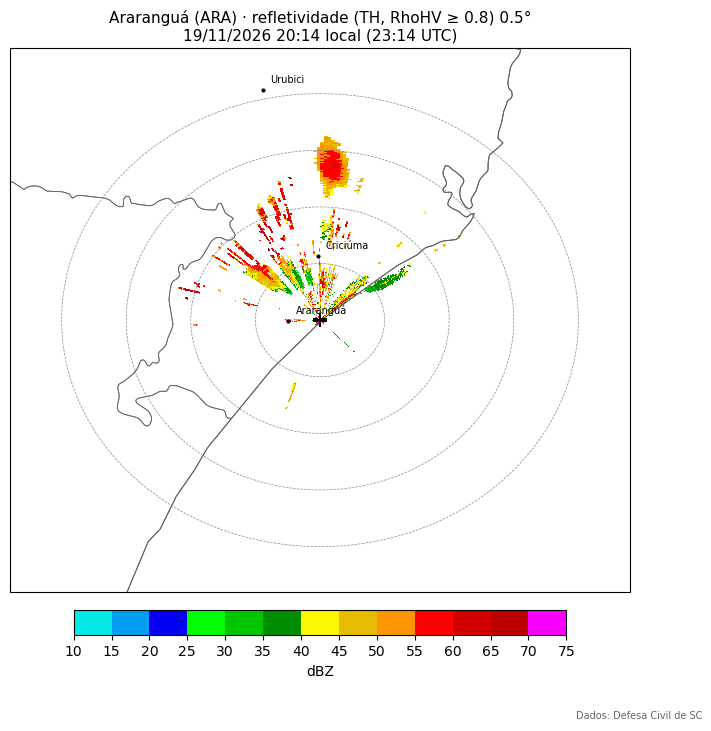
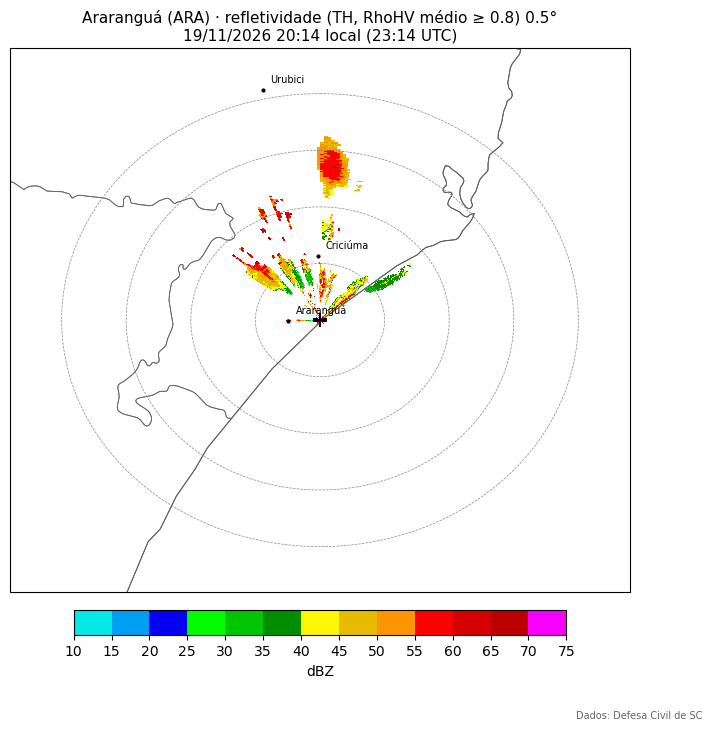
Araranguá: RhoHV suavizado, lista de quadros restaurada e comparação de azimutes
O limiar de RhoHV passa a usar a média em 3 raios x 1 km, o que reduz os
raios em falta de 19–55% para 8–23% nos 7 horários testados.

Restaura em recentes/ara/ppi/quadros.csv os 53 quadros que o commit
anterior tirou da lista por engano. comparar_azimutes.py separa bloqueio
fixo do feixe de falhas que mudam com o tempo. --quantas baixa vários
horários de amostra; --refazer redesenha quadros que já têm imagem.

diff --git a/index.html b/index.html
@@ -39,8 +39,8 @@ footer { max-width: 1200px; margin: 0 auto; padding: 16px 16px 32px; color: var(
   <h1>Radar SC, últimas 6 horas</h1>
   <p>Radares de Santa Catarina: volumes do FTP da Defesa Civil de SC desenhados por <code>baixar_ftp_sc.py</code>. Abre no quadro mais recente.</p>
 </header>
-<main><figure class="cartao laco" data-quadros="[{&quot;src&quot;: &quot;recentes/ara/ppi/20261119_231413.png&quot;, &quot;rotulo&quot;: &quot;19/11 20:14 local · 23:14 UTC&quot;}]"><div class="quadro"><img src="recentes/ara/ppi/20261119_231413.png" alt="Araranguá (Defesa Civil SC) · refletividade, elevação mais baixa"></div><div class="controles"><button type="button" class="tocar" aria-label="Tocar">▶</button><input type="range" min="0" max="0" value="0" aria-label="Quadro"><select aria-label="Velocidade"><option value="900">lento</option><option value="450" selected>normal</option><option value="180">rápido</option></select><output>19/11 20:14 local · 23:14 UTC</output></div><figcaption><h2>Araranguá (Defesa Civil SC) · refletividade, elevação mais baixa</h2><p>1 quadro, de 19/11 20:14 local · 23:14 UTC a 19/11 20:14 local · 23:14 UTC.</p></figcaption></figure><figure class="cartao laco" data-quadros="[{&quot;src&quot;: &quot;recentes/chp/ppi/20261119_171204.png&quot;, &quot;rotulo&quot;: &quot;19/11 14:12 local · 17:12 UTC&quot;}, {&quot;src&quot;: &quot;recentes/chp/ppi/20261119_171804.png&quot;, &quot;rotulo&quot;: &quot;19/11 14:18 local · 17:18 UTC&quot;}, {&quot;src&quot;: &quot;recentes/chp/ppi/20261119_172404.png&quot;, &quot;rotulo&quot;: &quot;19/11 14:24 local · 17:24 UTC&quot;}, {&quot;src&quot;: &quot;recentes/chp/ppi/20261119_173004.png&quot;, &quot;rotulo&quot;: &quot;19/11 14:30 local · 17:30 UTC&quot;}, {&quot;src&quot;: &quot;recentes/chp/ppi/20261119_173604.png&quot;, &quot;rotulo&quot;: &quot;19/11 14:36 local · 17:36 UTC&quot;}, {&quot;src&quot;: &quot;recentes/chp/ppi/20261119_174204.png&quot;, &quot;rotulo&quot;: &quot;19/11 14:42 local · 17:42 UTC&quot;}, {&quot;src&quot;: &quot;recentes/chp/ppi/20261119_174804.png&quot;, &quot;rotulo&quot;: &quot;19/11 14:48 local · 17:48 UTC&quot;}, {&quot;src&quot;: &quot;recentes/chp/ppi/20261119_175404.png&quot;, &quot;rotulo&quot;: &quot;19/11 14:54 local · 17:54 UTC&quot;}, {&quot;src&quot;: &quot;recentes/chp/ppi/20261119_180004.png&quot;, &quot;rotulo&quot;: &quot;19/11 15:00 local · 18:00 UTC&quot;}, {&quot;src&quot;: &quot;recentes/chp/ppi/20261119_180604.png&quot;, &quot;rotulo&quot;: &quot;19/11 15:06 local · 18:06 UTC&quot;}, {&quot;src&quot;: &quot;recentes/chp/ppi/20261119_181204.png&quot;, &quot;rotulo&quot;: &quot;19/11 15:12 local · 18:12 UTC&quot;}, {&quot;src&quot;: &quot;recentes/chp/ppi/20261119_181804.png&quot;, &quot;rotulo&quot;: &quot;19/11 15:18 local · 18:18 UTC&quot;}, {&quot;src&quot;: &quot;recentes/chp/ppi/20261119_182404.png&quot;, &quot;rotulo&quot;: &quot;19/11 15:24 local · 18:24 UTC&quot;}, {&quot;src&quot;: &quot;recentes/chp/ppi/20261119_183004.png&quot;, &quot;rotulo&quot;: &quot;19/11 15:30 local · 18:30 UTC&quot;}, {&quot;src&quot;: &quot;recentes/chp/ppi/20261119_183604.png&quot;, &quot;rotulo&quot;: &quot;19/11 15:36 local · 18:36 UTC&quot;}, {&quot;src&quot;: &quot;recentes/chp/ppi/20261119_184204.png&quot;, &quot;rotulo&quot;: &quot;19/11 15:42 local · 18:42 UTC&quot;}, {&quot;src&quot;: &quot;recentes/chp/ppi/20261119_184804.png&quot;, &quot;rotulo&quot;: &quot;19/11 15:48 local · 18:48 UTC&quot;}, {&quot;src&quot;: &quot;recentes/chp/ppi/20261119_185404.png&quot;, &quot;rotulo&quot;: &quot;19/11 15:54 local · 18:54 UTC&quot;}, {&quot;src&quot;: &quot;recentes/chp/ppi/20261119_190004.png&quot;, &quot;rotulo&quot;: &quot;19/11 16:00 local · 19:00 UTC&quot;}, {&quot;src&quot;: &quot;recentes/chp/ppi/20261119_190604.png&quot;, &quot;rotulo&quot;: &quot;19/11 16:06 local · 19:06 UTC&quot;}, {&quot;src&quot;: &quot;recentes/chp/ppi/20261119_191204.png&quot;, &quot;rotulo&quot;: &quot;19/11 16:12 local · 19:12 UTC&quot;}, {&quot;src&quot;: &quot;recentes/chp/ppi/20261119_191804.png&quot;, &quot;rotulo&quot;: &quot;19/11 16:18 local · 19:18 UTC&quot;}, {&quot;src&quot;: &quot;recentes/chp/ppi/20261119_193604.png&quot;, &quot;rotulo&quot;: &quot;19/11 16:36 local · 19:36 UTC&quot;}, {&quot;src&quot;: &quot;recentes/chp/ppi/20261119_195404.png&quot;, &quot;rotulo&quot;: &quot;19/11 16:54 local · 19:54 UTC&quot;}, {&quot;src&quot;: &quot;recentes/chp/ppi/20261119_200004.png&quot;, &quot;rotulo&quot;: &quot;19/11 17:00 local · 20:00 UTC&quot;}, {&quot;src&quot;: &quot;recentes/chp/ppi/20261119_200604.png&quot;, &quot;rotulo&quot;: &quot;19/11 17:06 local · 20:06 UTC&quot;}, {&quot;src&quot;: &quot;recentes/chp/ppi/20261119_201204.png&quot;, &quot;rotulo&quot;: &quot;19/11 17:12 local · 20:12 UTC&quot;}, {&quot;src&quot;: &quot;recentes/chp/ppi/20261119_201804.png&quot;, &quot;rotulo&quot;: &quot;19/11 17:18 local · 20:18 UTC&quot;}, {&quot;src&quot;: &quot;recentes/chp/ppi/20261119_202404.png&quot;, &quot;rotulo&quot;: &quot;19/11 17:24 local · 20:24 UTC&quot;}, {&quot;src&quot;: &quot;recentes/chp/ppi/20261119_203004.png&quot;, &quot;rotulo&quot;: &quot;19/11 17:30 local · 20:30 UTC&quot;}, {&quot;src&quot;: &quot;recentes/chp/ppi/20261119_203604.png&quot;, &quot;rotulo&quot;: &quot;19/11 17:36 local · 20:36 UTC&quot;}, {&quot;src&quot;: &quot;recentes/chp/ppi/20261119_204204.png&quot;, &quot;rotulo&quot;: &quot;19/11 17:42 local · 20:42 UTC&quot;}, {&quot;src&quot;: &quot;recentes/chp/ppi/20261119_204804.png&quot;, &quot;rotulo&quot;: &quot;19/11 17:48 local · 20:48 UTC&quot;}, {&quot;src&quot;: &quot;recentes/chp/ppi/20261119_205404.png&quot;, &quot;rotulo&quot;: &quot;19/11 17:54 local · 20:54 UTC&quot;}, {&quot;src&quot;: &quot;recentes/chp/ppi/20261119_210004.png&quot;, &quot;rotulo&quot;: &quot;19/11 18:00 local · 21:00 UTC&quot;}, {&quot;src&quot;: &quot;recentes/chp/ppi/20261119_210605.png&quot;, &quot;rotulo&quot;: &quot;19/11 18:06 local · 21:06 UTC&quot;}, {&quot;src&quot;: &quot;recentes/chp/ppi/20261119_211205.png&quot;, &quot;rotulo&quot;: &quot;19/11 18:12 local · 21:12 UTC&quot;}, {&quot;src&quot;: &quot;recentes/chp/ppi/20261119_211805.png&quot;, &quot;rotulo&quot;: &quot;19/11 18:18 local · 21:18 UTC&quot;}, {&quot;src&quot;: &quot;recentes/chp/ppi/20261119_212405.png&quot;, &quot;rotulo&quot;: &quot;19/11 18:24 local · 21:24 UTC&quot;}, {&quot;src&quot;: &quot;recentes/chp/ppi/20261119_213005.png&quot;, &quot;rotulo&quot;: &quot;19/11 18:30 local · 21:30 UTC&quot;}, {&quot;src&quot;: &quot;recentes/chp/ppi/20261119_213605.png&quot;, &quot;rotulo&quot;: &quot;19/11 18:36 local · 21:36 UTC&quot;}, {&quot;src&quot;: &quot;recentes/chp/ppi/20261119_214205.png&quot;, &quot;rotulo&quot;: &quot;19/11 18:42 local · 21:42 UTC&quot;}, {&quot;src&quot;: &quot;recentes/chp/ppi/20261119_214805.png&quot;, &quot;rotulo&quot;: &quot;19/11 18:48 local · 21:48 UTC&quot;}, {&quot;src&quot;: &quot;recentes/chp/ppi/20261119_215404.png&quot;, &quot;rotulo&quot;: &quot;19/11 18:54 local · 21:54 UTC&quot;}, {&quot;src&quot;: &quot;recentes/chp/ppi/20261119_220005.png&quot;, &quot;rotulo&quot;: &quot;19/11 19:00 local · 22:00 UTC&quot;}, {&quot;src&quot;: &quot;recentes/chp/ppi/20261119_220605.png&quot;, &quot;rotulo&quot;: &quot;19/11 19:06 local · 22:06 UTC&quot;}, {&quot;src&quot;: &quot;recentes/chp/ppi/20261119_221205.png&quot;, &quot;rotulo&quot;: &quot;19/11 19:12 local · 22:12 UTC&quot;}, {&quot;src&quot;: &quot;recentes/chp/ppi/20261119_221804.png&quot;, &quot;rotulo&quot;: &quot;19/11 19:18 local · 22:18 UTC&quot;}, {&quot;src&quot;: &quot;recentes/chp/ppi/20261119_222405.png&quot;, &quot;rotulo&quot;: &quot;19/11 19:24 local · 22:24 UTC&quot;}, {&quot;src&quot;: &quot;recentes/chp/ppi/20261119_223005.png&quot;, &quot;rotulo&quot;: &quot;19/11 19:30 local · 22:30 UTC&quot;}, {&quot;src&quot;: &quot;recentes/chp/ppi/20261119_223605.png&quot;, &quot;rotulo&quot;: &quot;19/11 19:36 local · 22:36 UTC&quot;}, {&quot;src&quot;: &quot;recentes/chp/ppi/20261119_224205.png&quot;, &quot;rotulo&quot;: &quot;19/11 19:42 local · 22:42 UTC&quot;}, {&quot;src&quot;: &quot;recentes/chp/ppi/20261119_224805.png&quot;, &quot;rotulo&quot;: &quot;19/11 19:48 local · 22:48 UTC&quot;}, {&quot;src&quot;: &quot;recentes/chp/ppi/20261119_225405.png&quot;, &quot;rotulo&quot;: &quot;19/11 19:54 local · 22:54 UTC&quot;}, {&quot;src&quot;: &quot;recentes/chp/ppi/20261119_230005.png&quot;, &quot;rotulo&quot;: &quot;19/11 20:00 local · 23:00 UTC&quot;}, {&quot;src&quot;: &quot;recentes/chp/ppi/20261119_230605.png&quot;, &quot;rotulo&quot;: &quot;19/11 20:06 local · 23:06 UTC&quot;}]"><div class="quadro"><img src="recentes/chp/ppi/20261119_230605.png" alt="Chapecó (Defesa Civil SC) · refletividade, elevação mais baixa"></div><div class="controles"><button type="button" class="tocar" aria-label="Tocar">▶</button><input type="range" min="0" max="55" value="55" aria-label="Quadro"><select aria-label="Velocidade"><option value="900">lento</option><option value="450" selected>normal</option><option value="180">rápido</option></select><output>19/11 20:06 local · 23:06 UTC</output></div><figcaption><h2>Chapecó (Defesa Civil SC) · refletividade, elevação mais baixa</h2><p>56 quadros, de 19/11 14:12 local · 17:12 UTC a 19/11 20:06 local · 23:06 UTC.</p></figcaption></figure></main>
-<footer>Atualizado em 19/11/2026 20:39 local (23:39 UTC). Fonte: Defesa Civil de SC.</footer>
+<main><figure class="cartao laco" data-quadros="[{&quot;src&quot;: &quot;recentes/ara/ppi/20261119_171651.png&quot;, &quot;rotulo&quot;: &quot;19/11 14:16 local · 17:16 UTC&quot;}, {&quot;src&quot;: &quot;recentes/ara/ppi/20261119_173115.png&quot;, &quot;rotulo&quot;: &quot;19/11 14:31 local · 17:31 UTC&quot;}, {&quot;src&quot;: &quot;recentes/ara/ppi/20261119_173521.png&quot;, &quot;rotulo&quot;: &quot;19/11 14:35 local · 17:35 UTC&quot;}, {&quot;src&quot;: &quot;recentes/ara/ppi/20261119_173724.png&quot;, &quot;rotulo&quot;: &quot;19/11 14:37 local · 17:37 UTC&quot;}, {&quot;src&quot;: &quot;recentes/ara/ppi/20261119_173926.png&quot;, &quot;rotulo&quot;: &quot;19/11 14:39 local · 17:39 UTC&quot;}, {&quot;src&quot;: &quot;recentes/ara/ppi/20261119_174129.png&quot;, &quot;rotulo&quot;: &quot;19/11 14:41 local · 17:41 UTC&quot;}, {&quot;src&quot;: &quot;recentes/ara/ppi/20261119_174332.png&quot;, &quot;rotulo&quot;: &quot;19/11 14:43 local · 17:43 UTC&quot;}, {&quot;src&quot;: &quot;recentes/ara/ppi/20261119_174536.png&quot;, &quot;rotulo&quot;: &quot;19/11 14:45 local · 17:45 UTC&quot;}, {&quot;src&quot;: &quot;recentes/ara/ppi/20261119_174739.png&quot;, &quot;rotulo&quot;: &quot;19/11 14:47 local · 17:47 UTC&quot;}, {&quot;src&quot;: &quot;recentes/ara/ppi/20261119_175553.png&quot;, &quot;rotulo&quot;: &quot;19/11 14:55 local · 17:55 UTC&quot;}, {&quot;src&quot;: &quot;recentes/ara/ppi/20261119_181015.png&quot;, &quot;rotulo&quot;: &quot;19/11 15:10 local · 18:10 UTC&quot;}, {&quot;src&quot;: &quot;recentes/ara/ppi/20261119_181218.png&quot;, &quot;rotulo&quot;: &quot;19/11 15:12 local · 18:12 UTC&quot;}, {&quot;src&quot;: &quot;recentes/ara/ppi/20261119_181624.png&quot;, &quot;rotulo&quot;: &quot;19/11 15:16 local · 18:16 UTC&quot;}, {&quot;src&quot;: &quot;recentes/ara/ppi/20261119_183452.png&quot;, &quot;rotulo&quot;: &quot;19/11 15:34 local · 18:34 UTC&quot;}, {&quot;src&quot;: &quot;recentes/ara/ppi/20261119_183858.png&quot;, &quot;rotulo&quot;: &quot;19/11 15:38 local · 18:38 UTC&quot;}, {&quot;src&quot;: &quot;recentes/ara/ppi/20261119_184507.png&quot;, &quot;rotulo&quot;: &quot;19/11 15:45 local · 18:45 UTC&quot;}, {&quot;src&quot;: &quot;recentes/ara/ppi/20261119_184913.png&quot;, &quot;rotulo&quot;: &quot;19/11 15:49 local · 18:49 UTC&quot;}, {&quot;src&quot;: &quot;recentes/ara/ppi/20261119_185116.png&quot;, &quot;rotulo&quot;: &quot;19/11 15:51 local · 18:51 UTC&quot;}, {&quot;src&quot;: &quot;recentes/ara/ppi/20261119_185522.png&quot;, &quot;rotulo&quot;: &quot;19/11 15:55 local · 18:55 UTC&quot;}, {&quot;src&quot;: &quot;recentes/ara/ppi/20261119_185725.png&quot;, &quot;rotulo&quot;: &quot;19/11 15:57 local · 18:57 UTC&quot;}, {&quot;src&quot;: &quot;recentes/ara/ppi/20261119_190540.png&quot;, &quot;rotulo&quot;: &quot;19/11 16:05 local · 19:05 UTC&quot;}, {&quot;src&quot;: &quot;recentes/ara/ppi/20261119_192408.png&quot;, &quot;rotulo&quot;: &quot;19/11 16:24 local · 19:24 UTC&quot;}, {&quot;src&quot;: &quot;recentes/ara/ppi/20261119_192612.png&quot;, &quot;rotulo&quot;: &quot;19/11 16:26 local · 19:26 UTC&quot;}, {&quot;src&quot;: &quot;recentes/ara/ppi/20261119_193018.png&quot;, &quot;rotulo&quot;: &quot;19/11 16:30 local · 19:30 UTC&quot;}, {&quot;src&quot;: &quot;recentes/ara/ppi/20261119_194236.png&quot;, &quot;rotulo&quot;: &quot;19/11 16:42 local · 19:42 UTC&quot;}, {&quot;src&quot;: &quot;recentes/ara/ppi/20261119_194440.png&quot;, &quot;rotulo&quot;: &quot;19/11 16:44 local · 19:44 UTC&quot;}, {&quot;src&quot;: &quot;recentes/ara/ppi/20261119_194644.png&quot;, &quot;rotulo&quot;: &quot;19/11 16:46 local · 19:46 UTC&quot;}, {&quot;src&quot;: &quot;recentes/ara/ppi/20261119_194847.png&quot;, &quot;rotulo&quot;: &quot;19/11 16:48 local · 19:48 UTC&quot;}, {&quot;src&quot;: &quot;recentes/ara/ppi/20261119_195659.png&quot;, &quot;rotulo&quot;: &quot;19/11 16:56 local · 19:56 UTC&quot;}, {&quot;src&quot;: &quot;recentes/ara/ppi/20261119_195902.png&quot;, &quot;rotulo&quot;: &quot;19/11 16:59 local · 19:59 UTC&quot;}, {&quot;src&quot;: &quot;recentes/ara/ppi/20261119_200513.png&quot;, &quot;rotulo&quot;: &quot;19/11 17:05 local · 20:05 UTC&quot;}, {&quot;src&quot;: &quot;recentes/ara/ppi/20261119_200919.png&quot;, &quot;rotulo&quot;: &quot;19/11 17:09 local · 20:09 UTC&quot;}, {&quot;src&quot;: &quot;recentes/ara/ppi/20261119_201325.png&quot;, &quot;rotulo&quot;: &quot;19/11 17:13 local · 20:13 UTC&quot;}, {&quot;src&quot;: &quot;recentes/ara/ppi/20261119_201933.png&quot;, &quot;rotulo&quot;: &quot;19/11 17:19 local · 20:19 UTC&quot;}, {&quot;src&quot;: &quot;recentes/ara/ppi/20261119_202136.png&quot;, &quot;rotulo&quot;: &quot;19/11 17:21 local · 20:21 UTC&quot;}, {&quot;src&quot;: &quot;recentes/ara/ppi/20261119_202542.png&quot;, &quot;rotulo&quot;: &quot;19/11 17:25 local · 20:25 UTC&quot;}, {&quot;src&quot;: &quot;recentes/ara/ppi/20261119_202745.png&quot;, &quot;rotulo&quot;: &quot;19/11 17:27 local · 20:27 UTC&quot;}, {&quot;src&quot;: &quot;recentes/ara/ppi/20261119_202948.png&quot;, &quot;rotulo&quot;: &quot;19/11 17:29 local · 20:29 UTC&quot;}, {&quot;src&quot;: &quot;recentes/ara/ppi/20261119_203151.png&quot;, &quot;rotulo&quot;: &quot;19/11 17:31 local · 20:31 UTC&quot;}, {&quot;src&quot;: &quot;recentes/ara/ppi/20261119_204207.png&quot;, &quot;rotulo&quot;: &quot;19/11 17:42 local · 20:42 UTC&quot;}, {&quot;src&quot;: &quot;recentes/ara/ppi/20261119_204410.png&quot;, &quot;rotulo&quot;: &quot;19/11 17:44 local · 20:44 UTC&quot;}, {&quot;src&quot;: &quot;recentes/ara/ppi/20261119_204613.png&quot;, &quot;rotulo&quot;: &quot;19/11 17:46 local · 20:46 UTC&quot;}, {&quot;src&quot;: &quot;recentes/ara/ppi/20261119_205223.png&quot;, &quot;rotulo&quot;: &quot;19/11 17:52 local · 20:52 UTC&quot;}, {&quot;src&quot;: &quot;recentes/ara/ppi/20261119_210444.png&quot;, &quot;rotulo&quot;: &quot;19/11 18:04 local · 21:04 UTC&quot;}, {&quot;src&quot;: &quot;recentes/ara/ppi/20261119_210850.png&quot;, &quot;rotulo&quot;: &quot;19/11 18:08 local · 21:08 UTC&quot;}, {&quot;src&quot;: &quot;recentes/ara/ppi/20261119_211256.png&quot;, &quot;rotulo&quot;: &quot;19/11 18:12 local · 21:12 UTC&quot;}, {&quot;src&quot;: &quot;recentes/ara/ppi/20261119_212517.png&quot;, &quot;rotulo&quot;: &quot;19/11 18:25 local · 21:25 UTC&quot;}, {&quot;src&quot;: &quot;recentes/ara/ppi/20261119_212924.png&quot;, &quot;rotulo&quot;: &quot;19/11 18:29 local · 21:29 UTC&quot;}, {&quot;src&quot;: &quot;recentes/ara/ppi/20261119_213738.png&quot;, &quot;rotulo&quot;: &quot;19/11 18:37 local · 21:37 UTC&quot;}, {&quot;src&quot;: &quot;recentes/ara/ppi/20261119_214550.png&quot;, &quot;rotulo&quot;: &quot;19/11 18:45 local · 21:45 UTC&quot;}, {&quot;src&quot;: &quot;recentes/ara/ppi/20261119_215204.png&quot;, &quot;rotulo&quot;: &quot;19/11 18:52 local · 21:52 UTC&quot;}, {&quot;src&quot;: &quot;recentes/ara/ppi/20261119_230358.png&quot;, &quot;rotulo&quot;: &quot;19/11 20:03 local · 23:03 UTC&quot;}, {&quot;src&quot;: &quot;recentes/ara/ppi/20261119_230601.png&quot;, &quot;rotulo&quot;: &quot;19/11 20:06 local · 23:06 UTC&quot;}, {&quot;src&quot;: &quot;recentes/ara/ppi/20261119_231413.png&quot;, &quot;rotulo&quot;: &quot;19/11 20:14 local · 23:14 UTC&quot;}, {&quot;src&quot;: &quot;recentes/ara/ppi/20261119_233648.png&quot;, &quot;rotulo&quot;: &quot;19/11 20:36 local · 23:36 UTC&quot;}]"><div class="quadro"><img src="recentes/ara/ppi/20261119_233648.png" alt="Araranguá (Defesa Civil SC) · refletividade, elevação mais baixa"></div><div class="controles"><button type="button" class="tocar" aria-label="Tocar">▶</button><input type="range" min="0" max="54" value="54" aria-label="Quadro"><select aria-label="Velocidade"><option value="900">lento</option><option value="450" selected>normal</option><option value="180">rápido</option></select><output>19/11 20:36 local · 23:36 UTC</output></div><figcaption><h2>Araranguá (Defesa Civil SC) · refletividade, elevação mais baixa</h2><p>55 quadros, de 19/11 14:16 local · 17:16 UTC a 19/11 20:36 local · 23:36 UTC.</p></figcaption></figure><figure class="cartao laco" data-quadros="[{&quot;src&quot;: &quot;recentes/chp/ppi/20261119_171204.png&quot;, &quot;rotulo&quot;: &quot;19/11 14:12 local · 17:12 UTC&quot;}, {&quot;src&quot;: &quot;recentes/chp/ppi/20261119_171804.png&quot;, &quot;rotulo&quot;: &quot;19/11 14:18 local · 17:18 UTC&quot;}, {&quot;src&quot;: &quot;recentes/chp/ppi/20261119_172404.png&quot;, &quot;rotulo&quot;: &quot;19/11 14:24 local · 17:24 UTC&quot;}, {&quot;src&quot;: &quot;recentes/chp/ppi/20261119_173004.png&quot;, &quot;rotulo&quot;: &quot;19/11 14:30 local · 17:30 UTC&quot;}, {&quot;src&quot;: &quot;recentes/chp/ppi/20261119_173604.png&quot;, &quot;rotulo&quot;: &quot;19/11 14:36 local · 17:36 UTC&quot;}, {&quot;src&quot;: &quot;recentes/chp/ppi/20261119_174204.png&quot;, &quot;rotulo&quot;: &quot;19/11 14:42 local · 17:42 UTC&quot;}, {&quot;src&quot;: &quot;recentes/chp/ppi/20261119_174804.png&quot;, &quot;rotulo&quot;: &quot;19/11 14:48 local · 17:48 UTC&quot;}, {&quot;src&quot;: &quot;recentes/chp/ppi/20261119_175404.png&quot;, &quot;rotulo&quot;: &quot;19/11 14:54 local · 17:54 UTC&quot;}, {&quot;src&quot;: &quot;recentes/chp/ppi/20261119_180004.png&quot;, &quot;rotulo&quot;: &quot;19/11 15:00 local · 18:00 UTC&quot;}, {&quot;src&quot;: &quot;recentes/chp/ppi/20261119_180604.png&quot;, &quot;rotulo&quot;: &quot;19/11 15:06 local · 18:06 UTC&quot;}, {&quot;src&quot;: &quot;recentes/chp/ppi/20261119_181204.png&quot;, &quot;rotulo&quot;: &quot;19/11 15:12 local · 18:12 UTC&quot;}, {&quot;src&quot;: &quot;recentes/chp/ppi/20261119_181804.png&quot;, &quot;rotulo&quot;: &quot;19/11 15:18 local · 18:18 UTC&quot;}, {&quot;src&quot;: &quot;recentes/chp/ppi/20261119_182404.png&quot;, &quot;rotulo&quot;: &quot;19/11 15:24 local · 18:24 UTC&quot;}, {&quot;src&quot;: &quot;recentes/chp/ppi/20261119_183004.png&quot;, &quot;rotulo&quot;: &quot;19/11 15:30 local · 18:30 UTC&quot;}, {&quot;src&quot;: &quot;recentes/chp/ppi/20261119_183604.png&quot;, &quot;rotulo&quot;: &quot;19/11 15:36 local · 18:36 UTC&quot;}, {&quot;src&quot;: &quot;recentes/chp/ppi/20261119_184204.png&quot;, &quot;rotulo&quot;: &quot;19/11 15:42 local · 18:42 UTC&quot;}, {&quot;src&quot;: &quot;recentes/chp/ppi/20261119_184804.png&quot;, &quot;rotulo&quot;: &quot;19/11 15:48 local · 18:48 UTC&quot;}, {&quot;src&quot;: &quot;recentes/chp/ppi/20261119_185404.png&quot;, &quot;rotulo&quot;: &quot;19/11 15:54 local · 18:54 UTC&quot;}, {&quot;src&quot;: &quot;recentes/chp/ppi/20261119_190004.png&quot;, &quot;rotulo&quot;: &quot;19/11 16:00 local · 19:00 UTC&quot;}, {&quot;src&quot;: &quot;recentes/chp/ppi/20261119_190604.png&quot;, &quot;rotulo&quot;: &quot;19/11 16:06 local · 19:06 UTC&quot;}, {&quot;src&quot;: &quot;recentes/chp/ppi/20261119_191204.png&quot;, &quot;rotulo&quot;: &quot;19/11 16:12 local · 19:12 UTC&quot;}, {&quot;src&quot;: &quot;recentes/chp/ppi/20261119_191804.png&quot;, &quot;rotulo&quot;: &quot;19/11 16:18 local · 19:18 UTC&quot;}, {&quot;src&quot;: &quot;recentes/chp/ppi/20261119_193604.png&quot;, &quot;rotulo&quot;: &quot;19/11 16:36 local · 19:36 UTC&quot;}, {&quot;src&quot;: &quot;recentes/chp/ppi/20261119_195404.png&quot;, &quot;rotulo&quot;: &quot;19/11 16:54 local · 19:54 UTC&quot;}, {&quot;src&quot;: &quot;recentes/chp/ppi/20261119_200004.png&quot;, &quot;rotulo&quot;: &quot;19/11 17:00 local · 20:00 UTC&quot;}, {&quot;src&quot;: &quot;recentes/chp/ppi/20261119_200604.png&quot;, &quot;rotulo&quot;: &quot;19/11 17:06 local · 20:06 UTC&quot;}, {&quot;src&quot;: &quot;recentes/chp/ppi/20261119_201204.png&quot;, &quot;rotulo&quot;: &quot;19/11 17:12 local · 20:12 UTC&quot;}, {&quot;src&quot;: &quot;recentes/chp/ppi/20261119_201804.png&quot;, &quot;rotulo&quot;: &quot;19/11 17:18 local · 20:18 UTC&quot;}, {&quot;src&quot;: &quot;recentes/chp/ppi/20261119_202404.png&quot;, &quot;rotulo&quot;: &quot;19/11 17:24 local · 20:24 UTC&quot;}, {&quot;src&quot;: &quot;recentes/chp/ppi/20261119_203004.png&quot;, &quot;rotulo&quot;: &quot;19/11 17:30 local · 20:30 UTC&quot;}, {&quot;src&quot;: &quot;recentes/chp/ppi/20261119_203604.png&quot;, &quot;rotulo&quot;: &quot;19/11 17:36 local · 20:36 UTC&quot;}, {&quot;src&quot;: &quot;recentes/chp/ppi/20261119_204204.png&quot;, &quot;rotulo&quot;: &quot;19/11 17:42 local · 20:42 UTC&quot;}, {&quot;src&quot;: &quot;recentes/chp/ppi/20261119_204804.png&quot;, &quot;rotulo&quot;: &quot;19/11 17:48 local · 20:48 UTC&quot;}, {&quot;src&quot;: &quot;recentes/chp/ppi/20261119_205404.png&quot;, &quot;rotulo&quot;: &quot;19/11 17:54 local · 20:54 UTC&quot;}, {&quot;src&quot;: &quot;recentes/chp/ppi/20261119_210004.png&quot;, &quot;rotulo&quot;: &quot;19/11 18:00 local · 21:00 UTC&quot;}, {&quot;src&quot;: &quot;recentes/chp/ppi/20261119_210605.png&quot;, &quot;rotulo&quot;: &quot;19/11 18:06 local · 21:06 UTC&quot;}, {&quot;src&quot;: &quot;recentes/chp/ppi/20261119_211205.png&quot;, &quot;rotulo&quot;: &quot;19/11 18:12 local · 21:12 UTC&quot;}, {&quot;src&quot;: &quot;recentes/chp/ppi/20261119_211805.png&quot;, &quot;rotulo&quot;: &quot;19/11 18:18 local · 21:18 UTC&quot;}, {&quot;src&quot;: &quot;recentes/chp/ppi/20261119_212405.png&quot;, &quot;rotulo&quot;: &quot;19/11 18:24 local · 21:24 UTC&quot;}, {&quot;src&quot;: &quot;recentes/chp/ppi/20261119_213005.png&quot;, &quot;rotulo&quot;: &quot;19/11 18:30 local · 21:30 UTC&quot;}, {&quot;src&quot;: &quot;recentes/chp/ppi/20261119_213605.png&quot;, &quot;rotulo&quot;: &quot;19/11 18:36 local · 21:36 UTC&quot;}, {&quot;src&quot;: &quot;recentes/chp/ppi/20261119_214205.png&quot;, &quot;rotulo&quot;: &quot;19/11 18:42 local · 21:42 UTC&quot;}, {&quot;src&quot;: &quot;recentes/chp/ppi/20261119_214805.png&quot;, &quot;rotulo&quot;: &quot;19/11 18:48 local · 21:48 UTC&quot;}, {&quot;src&quot;: &quot;recentes/chp/ppi/20261119_215404.png&quot;, &quot;rotulo&quot;: &quot;19/11 18:54 local · 21:54 UTC&quot;}, {&quot;src&quot;: &quot;recentes/chp/ppi/20261119_220005.png&quot;, &quot;rotulo&quot;: &quot;19/11 19:00 local · 22:00 UTC&quot;}, {&quot;src&quot;: &quot;recentes/chp/ppi/20261119_220605.png&quot;, &quot;rotulo&quot;: &quot;19/11 19:06 local · 22:06 UTC&quot;}, {&quot;src&quot;: &quot;recentes/chp/ppi/20261119_221205.png&quot;, &quot;rotulo&quot;: &quot;19/11 19:12 local · 22:12 UTC&quot;}, {&quot;src&quot;: &quot;recentes/chp/ppi/20261119_221804.png&quot;, &quot;rotulo&quot;: &quot;19/11 19:18 local · 22:18 UTC&quot;}, {&quot;src&quot;: &quot;recentes/chp/ppi/20261119_222405.png&quot;, &quot;rotulo&quot;: &quot;19/11 19:24 local · 22:24 UTC&quot;}, {&quot;src&quot;: &quot;recentes/chp/ppi/20261119_223005.png&quot;, &quot;rotulo&quot;: &quot;19/11 19:30 local · 22:30 UTC&quot;}, {&quot;src&quot;: &quot;recentes/chp/ppi/20261119_223605.png&quot;, &quot;rotulo&quot;: &quot;19/11 19:36 local · 22:36 UTC&quot;}, {&quot;src&quot;: &quot;recentes/chp/ppi/20261119_224205.png&quot;, &quot;rotulo&quot;: &quot;19/11 19:42 local · 22:42 UTC&quot;}, {&quot;src&quot;: &quot;recentes/chp/ppi/20261119_224805.png&quot;, &quot;rotulo&quot;: &quot;19/11 19:48 local · 22:48 UTC&quot;}, {&quot;src&quot;: &quot;recentes/chp/ppi/20261119_225405.png&quot;, &quot;rotulo&quot;: &quot;19/11 19:54 local · 22:54 UTC&quot;}, {&quot;src&quot;: &quot;recentes/chp/ppi/20261119_230005.png&quot;, &quot;rotulo&quot;: &quot;19/11 20:00 local · 23:00 UTC&quot;}, {&quot;src&quot;: &quot;recentes/chp/ppi/20261119_230605.png&quot;, &quot;rotulo&quot;: &quot;19/11 20:06 local · 23:06 UTC&quot;}]"><div class="quadro"><img src="recentes/chp/ppi/20261119_230605.png" alt="Chapecó (Defesa Civil SC) · refletividade, elevação mais baixa"></div><div class="controles"><button type="button" class="tocar" aria-label="Tocar">▶</button><input type="range" min="0" max="55" value="55" aria-label="Quadro"><select aria-label="Velocidade"><option value="900">lento</option><option value="450" selected>normal</option><option value="180">rápido</option></select><output>19/11 20:06 local · 23:06 UTC</output></div><figcaption><h2>Chapecó (Defesa Civil SC) · refletividade, elevação mais baixa</h2><p>56 quadros, de 19/11 14:12 local · 17:12 UTC a 19/11 20:06 local · 23:06 UTC.</p></figcaption></figure></main>
+<footer>Atualizado em 19/11/2026 20:49 local (23:49 UTC). Fonte: Defesa Civil de SC.</footer>
 <script>
 document.querySelectorAll('.laco').forEach(fig => {
   const q = JSON.parse(fig.dataset.quadros), img = fig.querySelector('img'), faixa = fig.querySelector('input'),

diff --git a/baixar_ftp_sc.py b/baixar_ftp_sc.py
@@ -108,17 +108,22 @@ def arvore(ftp,pasta="/", prof=0, saida=None, max_prof=3):
         print(f"Estrutura gravada em {AQUI / 'ftp_arvore.txt'}")
 
 
-def amostra(ftp, sigla):
-    """Baixa o arquivo mais recente de /SIGLA/HDF5 e grava a árvore HDF (grupos, datasets, atributos)."""
+def amostra(ftp, sigla, quantas=1):
+    """Baixa `quantas` arquivos de /SIGLA/HDF5, espalhados por todo o histórico do FTP (o último é o mais recente),
+    e grava a árvore HDF (grupos, datasets, atributos) do mais recente."""
     import h5py
     import numpy as np
     nomes = sorted(n for n, d in listar(ftp, f"/{sigla}/HDF5") if not d)
     if not nomes:
         raise SystemExit(f"/{sigla}/HDF5 está vazia")
-    destino = AQUI / "amostras" / sigla / nomes[-1]  # fora do cache: o fluxo normal apaga o que está em cache_vol
-    destino.parent.mkdir(parents=True, exist_ok=True)
-    with open(destino, "wb") as f:
-        ftp.retrbinary(f"RETR /{sigla}/HDF5/{nomes[-1]}", f.write)
+    idx = sorted({round(i) for i in np.linspace(0, len(nomes) - 1, max(quantas, 1))}) if quantas > 1 else [len(nomes) - 1]
+    for i in idx:
+        destino = AQUI / "amostras" / sigla / nomes[i]  # fora do cache: o fluxo normal apaga o que está em cache_vol
+        destino.parent.mkdir(parents=True, exist_ok=True)
+        if not destino.exists():
+            with open(destino, "wb") as f:
+                ftp.retrbinary(f"RETR /{sigla}/HDF5/{nomes[i]}", f.write)
+        print(f"  {nomes[i]}", flush=True)
     linhas = [f"arquivo: {nomes[-1]} ({destino.stat().st_size} bytes)"]
 
     def attrs(obj, ind):
@@ -178,11 +183,14 @@ def main():
     ap.add_argument("--horas", type=float, default=6)
     ap.add_argument("--radares", nargs="+", help="siglas do FTP (padrão: todas as pastas com VOL ou HDF5)")
     ap.add_argument("--alcance", type=float, default=250, help="raio da imagem em km")
+    ap.add_argument("--refazer", action="store_true", help="redesenha também os quadros que já têm imagem")
     ap.add_argument("--listar", action="store_true", help="só lista radares e o último volume de cada")
     ap.add_argument("--arvore", action="store_true",
                     help="grava ftp_arvore.txt com as pastas do servidor e alguns arquivos de cada (diagnóstico)")
     ap.add_argument("--amostra", metavar="SIGLA",
                     help="baixa o HDF mais recente de /SIGLA/HDF5 e descreve sua estrutura em amostra_SIGLA.txt")
+    ap.add_argument("--quantas", type=int, default=1,
+                    help="com --amostra: quantos arquivos, espalhados pelo histórico do FTP (ex.: 6)")
     a = ap.parse_args()
 
     host, user, senha = credenciais()
@@ -195,7 +203,7 @@ def main():
             arvore(ftp)
             return
         if a.amostra:
-            amostra(ftp, a.amostra.upper())
+            amostra(ftp, a.amostra.upper(), a.quantas)
             return
         radares = radares_no_ftp(ftp, {r.upper() for r in a.radares} if a.radares else None)
         print(f"Radares: {', '.join(f'{s}/{sub}' for s, sub in radares) or 'nenhum'}")
@@ -216,7 +224,7 @@ def main():
             for i, (t, nome) in enumerate(alvos, 1):
                 png = pasta / f"{t:%Y%m%d_%H%M%S}.png"
                 try:
-                    if not png.exists():
+                    if a.refazer or not png.exists():
                         vol = baixar(ftp, s, sub, nome)
                         desenhar(vol, png, f"{NOMES.get(s, s)} ({s})", t, a.alcance)
                         vol.unlink()  # a imagem basta; o volume bruto ocupa até 26 MB

diff --git a/comparar_azimutes.py b/comparar_azimutes.py
@@ -1,0 +1,76 @@
+# -*- coding: utf-8 -*-
+"""Bloqueio do feixe ou chuva? Compara, entre vários volumes ODIM, os azimutes com falta de eco.
+
+Bloqueio por obstáculo fixo apaga sempre os mesmos azimutes, chova onde chover. Chuva muda de lugar.
+Em cada volume e elevação: fração de gates com eco (TH >= 20 dBZ e RhoHV >= 0,8) por raio, entre 10 e 60 km,
+dividida pela média dos raios vizinhos (±5°). Raio "em falta": razão < 0,3 onde os vizinhos têm eco.
+
+Uso:
+  python comparar_azimutes.py amostras/ARA/*.hdf
+"""
+import sys
+from pathlib import Path
+
+import h5py
+import numpy as np
+
+from diagnostico_odim import campos
+
+R0, R1, MIN_VIZ = 10.0, 60.0, 0.05
+
+
+def perfil(ds):
+    c = campos(ds)
+    w = ds["where"].attrs
+    rs = float(w["rscale"]) / 1000
+    sel = slice(int(R0 / rs), int(R1 / rs))
+    eco = (c["TH"][:, sel] >= 20) & (c["RHOHV"][:, sel] >= 0.8)
+    az = np.asarray(ds["how"].attrs["startazA"], float)
+    fr = np.zeros(360)
+    np.add.at(fr, np.round(az).astype(int) % 360, eco.mean(axis=1))  # um valor por grau
+    viz = np.convolve(np.r_[fr[-5:], fr, fr[:5]], np.r_[np.ones(5), 0, np.ones(5)] / 10, "valid")
+    return fr, viz
+
+
+def main():
+    arquivos = sorted(Path(p) for a in sys.argv[1:] for p in (Path().glob(a) if "*" in a else [a]))
+    if len(arquivos) < 2:
+        print("Aviso: com um só horário não dá para separar bloqueio de chuva.")
+    elevs = {}
+    for f in arquivos:
+        with h5py.File(f) as h:
+            for k in sorted((k for k in h if k.startswith("dataset")), key=lambda k: int(k[7:]))[:3]:
+                ele = round(float(h[k]["where"].attrs["elangle"]), 1)
+                fr, viz = perfil(h[k])
+                elevs.setdefault(ele, []).append((f.name.split("-")[2] + " " + f.name.split("-")[3], fr, viz))
+    for ele, lista in sorted(elevs.items()):
+        print(f"\nElevação {ele}°")
+        falta = []
+        for nome, fr, viz in lista:
+            ok = viz >= MIN_VIZ                       # só onde há eco em volta
+            f_ = ok & (fr < 0.3 * viz)
+            falta.append((ok, f_))
+            print(f"  {nome}: graus avaliáveis {ok.sum():3d}, em falta {f_.sum():3d}")
+        if len(lista) < 2:
+            continue
+        # Para cada grau: em quantos horários avaliáveis ele estava em falta
+        aval = np.sum([ok for ok, _ in falta], axis=0)
+        em_falta = np.sum([f_ for _, f_ in falta], axis=0)
+        fixos = np.flatnonzero((aval >= 2) & (em_falta >= 0.8 * aval))
+        print(f"  graus em falta em >= 80% dos horários em que havia eco em volta (avaliados em >= 2): {len(fixos)}")
+        if len(fixos):
+            print("   ", ", ".join(f"{a}°" for a in fixos))
+        # Concordância esperada ao acaso
+        pares = [(i, j) for i in range(len(falta)) for j in range(i + 1, len(falta))]
+        for i, j in pares[:10]:
+            ambos = falta[i][0] & falta[j][0]
+            if ambos.sum() < 10:
+                continue
+            a, b = falta[i][1] & ambos, falta[j][1] & ambos
+            obs = (a & b).sum()
+            esp = a.sum() * b.sum() / ambos.sum()
+            print(f"  {lista[i][0]} x {lista[j][0]}: graus em falta nos dois = {obs} (ao acaso ~{esp:.1f}, de {ambos.sum()} comuns)")
+
+
+if __name__ == "__main__":
+    main()

diff --git a/leitor_odim.py b/leitor_odim.py
@@ -16,6 +16,18 @@ def _txt(v):
 
 
 RHOHV_MIN = 0.8
+JANELA_RAIOS, JANELA_KM = 3, 1.0  # suavização do RhoHV antes do limiar
+
+
+def _suavizar(rho, rscale_km):
+    """Média do RhoHV em janela de JANELA_RAIOS raios x JANELA_KM, ignorando gates sem dado (azimute cíclico)."""
+    from scipy.ndimage import uniform_filter
+    nb = max(1, int(round(JANELA_KM / rscale_km)))
+    ok = np.isfinite(rho)
+    soma = uniform_filter(np.where(ok, rho, 0.0), size=(JANELA_RAIOS, nb), mode=("wrap", "nearest"))
+    peso = uniform_filter(ok.astype(np.float32), size=(JANELA_RAIOS, nb), mode=("wrap", "nearest"))
+    with np.errstate(invalid="ignore", divide="ignore"):
+        return np.where(peso > 0, soma / peso, np.nan)
 
 
 def _fisico(g):
@@ -26,8 +38,10 @@ def _fisico(g):
     return fis
 
 
-def ler_volume_odim(caminho, quantidades=PREFERIDAS, th_rhohv=True):
+def ler_volume_odim(caminho, quantidades=PREFERIDAS, th_rhohv=True, mascara="suave"):
     """th_rhohv=True: usa a refletividade bruta (TH) e retira os gates com RhoHV < 0,8.
+    mascara="suave" aplica o limiar ao RhoHV médio de 3 raios x 1 km; "ponto" aplica gate a gate.
+    Gate a gate, o limiar retalha a imagem em faixas radiais, porque o RhoHV de cada gate é ruidoso.
 
     Em Araranguá, o filtro de clutter Doppler que gera o DBZH apaga raios inteiros de chuva, porque a PRF
     baixa (400/267 Hz em banda X) deixa a velocidade e o SQI sem sentido. O RhoHV não depende do Doppler:
@@ -42,11 +56,10 @@ def ler_volume_odim(caminho, quantidades=PREFERIDAS, th_rhohv=True):
             ds = h[nome]
             w = ds["where"].attrs
             dados = {_txt(ds[d]["what"].attrs["quantity"]): ds[d] for d in ds if d.startswith("data")}
-            if th_rhohv and "TH" in dados and "RHOHV" in dados:
-                q = f"TH, RhoHV ≥ {RHOHV_MIN:.1f}"
-                fis = _fisico(dados["TH"])
-                rho = _fisico(dados["RHOHV"])
-                fis[~(rho >= RHOHV_MIN)] = np.nan
+            usar_rho = th_rhohv and "TH" in dados and "RHOHV" in dados
+            if usar_rho:
+                q = f"TH, RhoHV{' médio' if mascara == 'suave' else ''} ≥ {RHOHV_MIN:.1f}"
+                fis, rho = _fisico(dados["TH"]), _fisico(dados["RHOHV"])
             else:
                 q = next((q for q in quantidades if q in dados), None)
                 if q is None:
@@ -62,6 +75,13 @@ def ler_volume_odim(caminho, quantidades=PREFERIDAS, th_rhohv=True):
                 az = (np.arange(nr) + 0.5) * 360.0 / nr
             ordem = np.argsort(az)
             rscale_km = float(w["rscale"]) / 1000.0
+            if usar_rho:
+                rho = rho[ordem]
+                if mascara == "suave":
+                    rho = _suavizar(rho, rscale_km)
+                fis, az = fis[ordem], az[ordem]
+                fis[~(rho >= RHOHV_MIN)] = np.nan
+                ordem = np.arange(len(ordem))  # já ordenado
             ranges = float(w.get("rstart", 0.0)) + (np.arange(int(w["nbins"]), dtype=np.float32) + 0.5) * rscale_km
             fatias.append({"ele_deg": float(w["elangle"]), "azimuths": az[ordem], "ranges_km": ranges,
                            "data": fis[ordem], "quantity": q})
